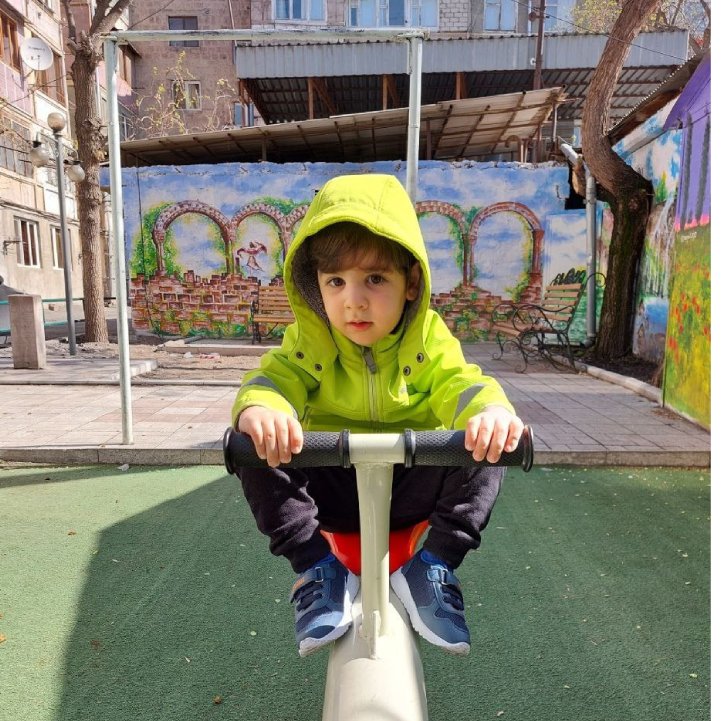
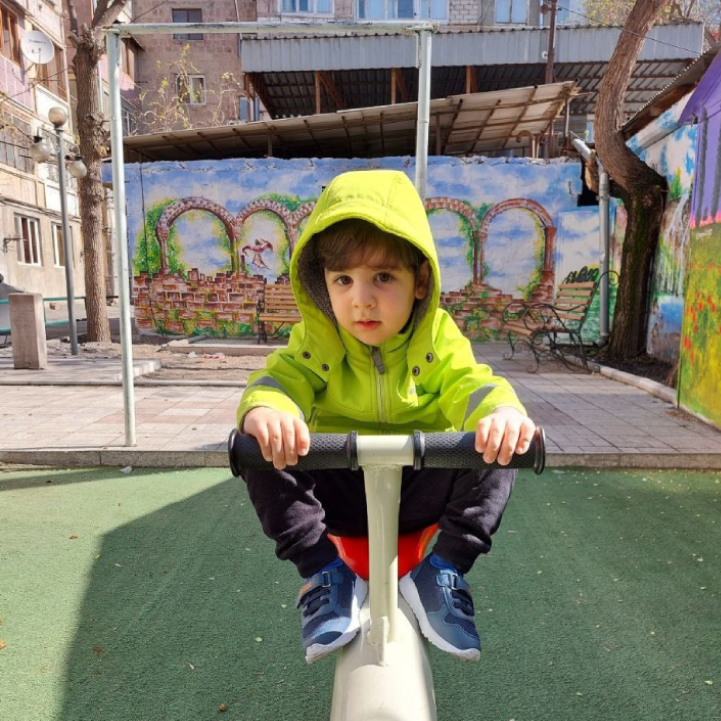
update: image slider style

diff --git a/src/components/UI/Hero.js b/src/components/UI/Hero.js
@@ -61,7 +61,7 @@ const Hero = props => {
                 <div>
                     <img src={hero1} alt='Hrayr Andreasyan in the street.' class='mt-10 hidden lg:block lg:mt-16 lg:max-w-xs xl:max-w-md' />
                 </div>
-                <div class='max-w-2xl'>
+                <div class='max-w-2xl mt-12'>
                     <p class='mb-5'><span><img src={locationPin} class='h-4 inline mb-1 mr-1' alt='Location pin icon' /></span>Yerevan, Armenia</p>
                     <h1 class='mb-5 font-bold font-poppins'>
                         <span class={tailwindClassName}>Hrayr Andreasyan,</span><br />
@@ -69,9 +69,9 @@ const Hero = props => {
                         <span class={tailwindClassSoftware} >Software</span><br />
                         <span class={tailwindClassEngineer} >Engineer</span>
                     </h1>
-                    <p class='my-8 md:my-16 text-neutral xl:leading-loose'>
+                    {/* <p class='my-8 md:my-16 text-neutral xl:leading-loose'>
                         I am Hrayr, also known as Harry, a Senior Software Engineer based in Yerevan, Armenia.  Specializing in building fast, scalable web apps with the latest tech. I’m big on clean code, love mentoring, and always look for smart ways to solve tricky problems. Turning complicated stuff into simple, useful things that people actually enjoy using.
-                    </p>
+                    </p> */}
                     <a href={resume} target='_blank' rel="noreferrer" class='btn mr-10 btn-md text-xs mb-5 sm:mb-0'>Get my Resume</a>
                     <div class="dropdown dropdown-hover">
                         <a href='mailto:hrair5@inbox.ru' target='_blank' rel="noreferrer" class="btn btn-outline btn-md text-xs px-12">hrair5@inbox.ru</a>

diff --git a/src/components/about_me/family.css b/src/components/about_me/family.css
@@ -1,17 +1,39 @@
 .swiper {
-    width: 100%;
-    padding-top: 50px;
-    padding-bottom: 50px;
+  width: 100%;
+  padding-top: 50px;
+  padding-bottom: 100px;
 }
 
 .swiper-slide {
-    background-position: center;
-    background-size: cover;
-    width: 550px;
-    height: 550px;
-  }
+  background-position: center;
+  background-size: cover;
+  width: 450px;
+  height: 450px;
+}
 
-  .swiper-slide img {
-    display: block;
-    width: 100%;
-  }
+.swiper-slide img {
+  display: block;
+  width: 100%;
+}
+
+.swiper-slide img {
+  display: block;
+  width: 100%;
+  opacity: 0.7;
+  border-radius: 16px;
+  overflow: hidden;
+  object-fit: cover;
+  filter: blur(2px);
+  transition: filter 0.3s ease, opacity 0.3s ease, box-shadow 0.3s ease; /* Added box-shadow transition */
+}
+
+.swiper-slide div {
+  border-radius: 16px;
+}
+
+.swiper-slide-active img {
+  opacity: 1;
+  filter: none;
+  box-shadow: rgba(0, 0, 0, 0.3) 0px 19px 38px, rgb(0 0 0 / 51%) 0px 15px 12px;
+  transition: filter 0.3s ease, opacity 0.3s ease, box-shadow 0.3s ease; /* Added box-shadow transition */
+}

diff --git a/src/App.js b/src/App.js
@@ -38,7 +38,7 @@ function App() {
       <div class='bg-wave-bottom w-full h-96 bg-no-repeat bg-cover -mt-5'></div>
       <Family />
       {/* Contact */}
-      <div class='bg-wave-top w-full h-32 lg:h-64 2xl:h-96 bg-no-repeat bg-cover mt-32 -mb-1'></div>
+      <div class='bg-wave-top w-full h-32 lg:h-64 2xl:h-96 bg-no-repeat bg-cover mt-8 -mb-1'></div>
       <ContactSection />
       <div class='bg-wave-bottom w-full h-32 lg:h-64 2xl:h-96 bg-no-repeat bg-cover -mt-5'></div>
       {/* Footer */}

diff --git a/src/components/about_me/Family.js b/src/components/about_me/Family.js
@@ -30,7 +30,7 @@ const Family = props => {
                     modifier: 1,
                     slideShadows: true,
                 }}
-                initialSlide={1}
+                initialSlide={2}
                 modules={[EffectCoverflow, Pagination]}
                 className="mySwiper"
             >
